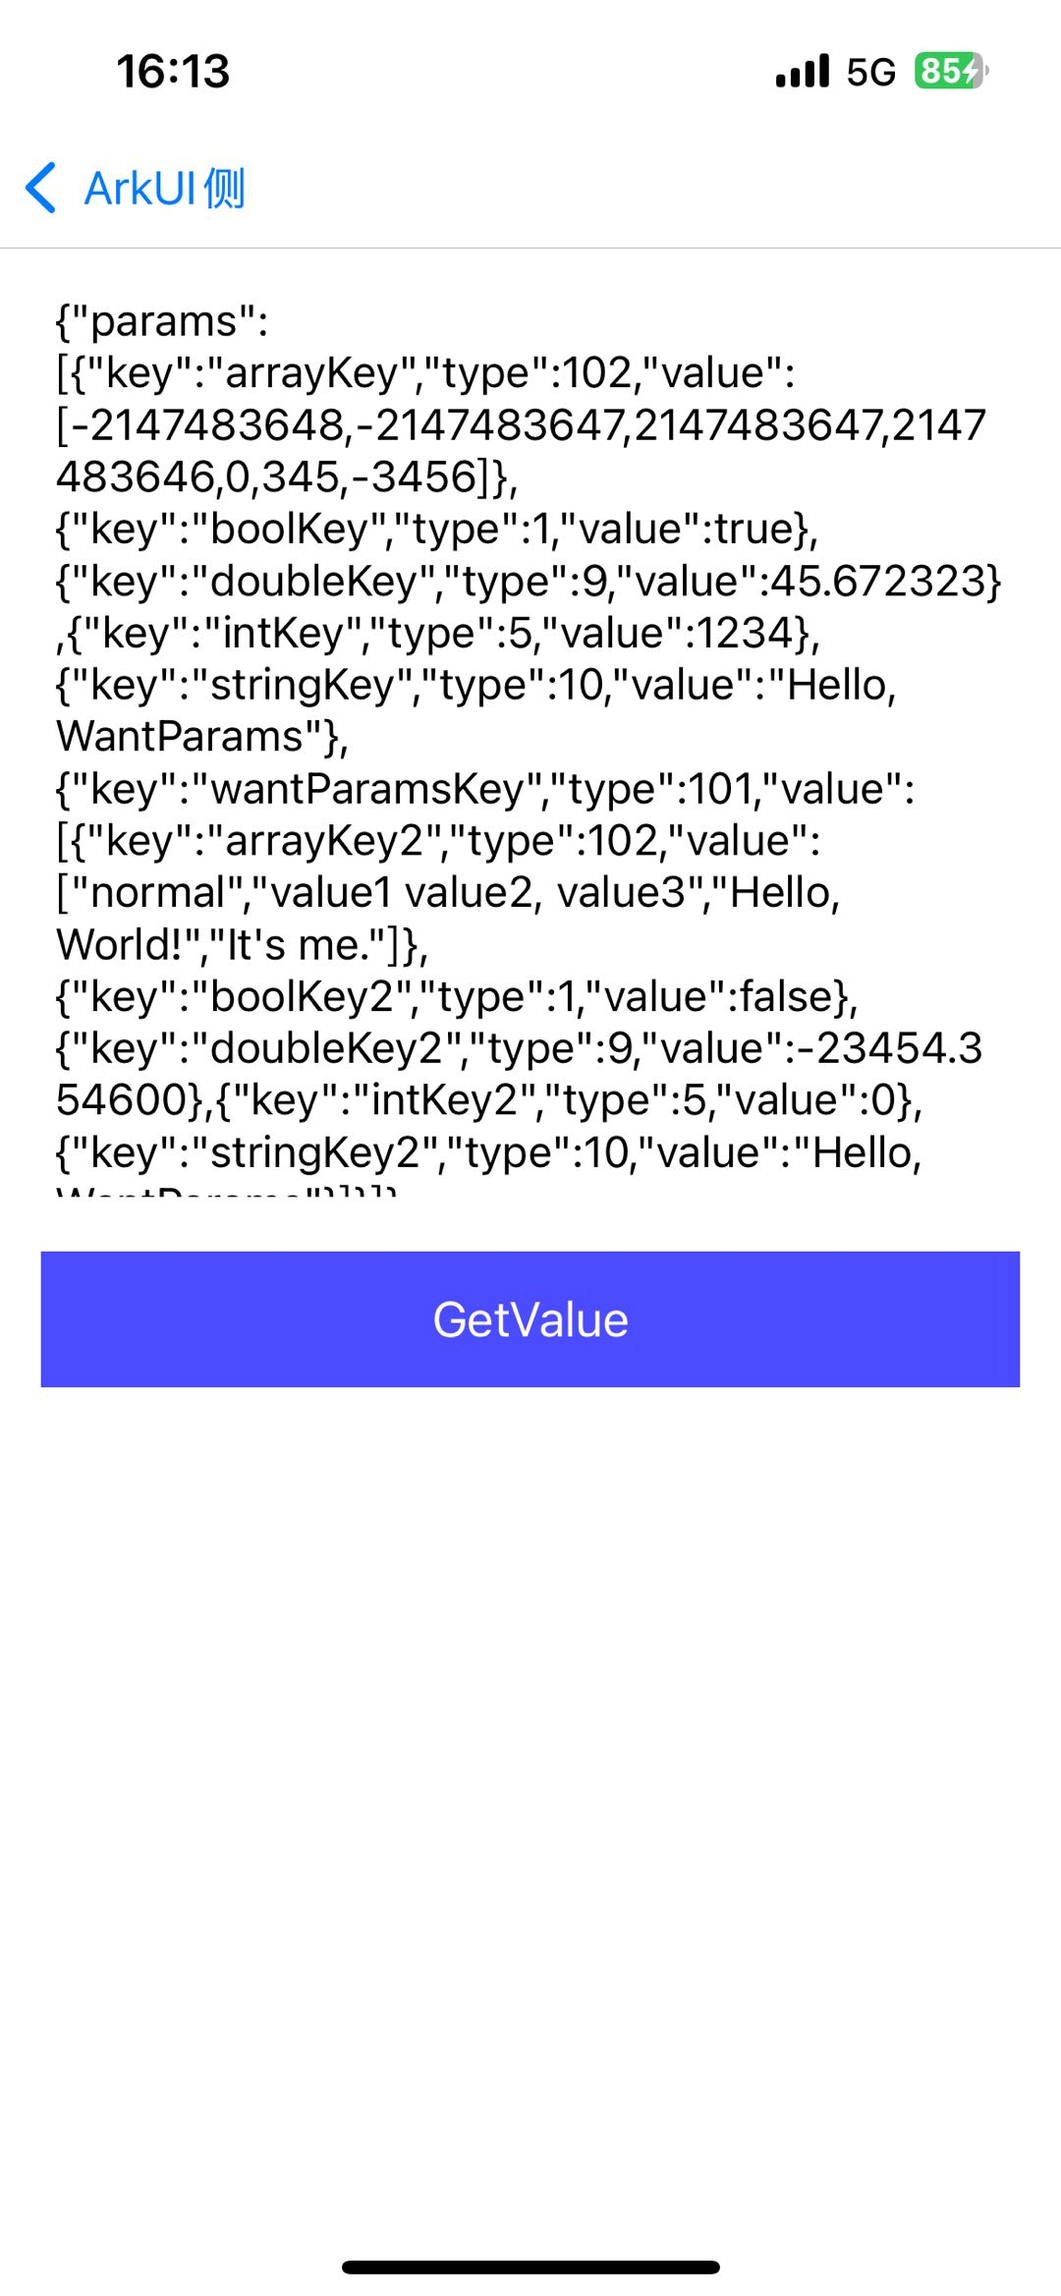
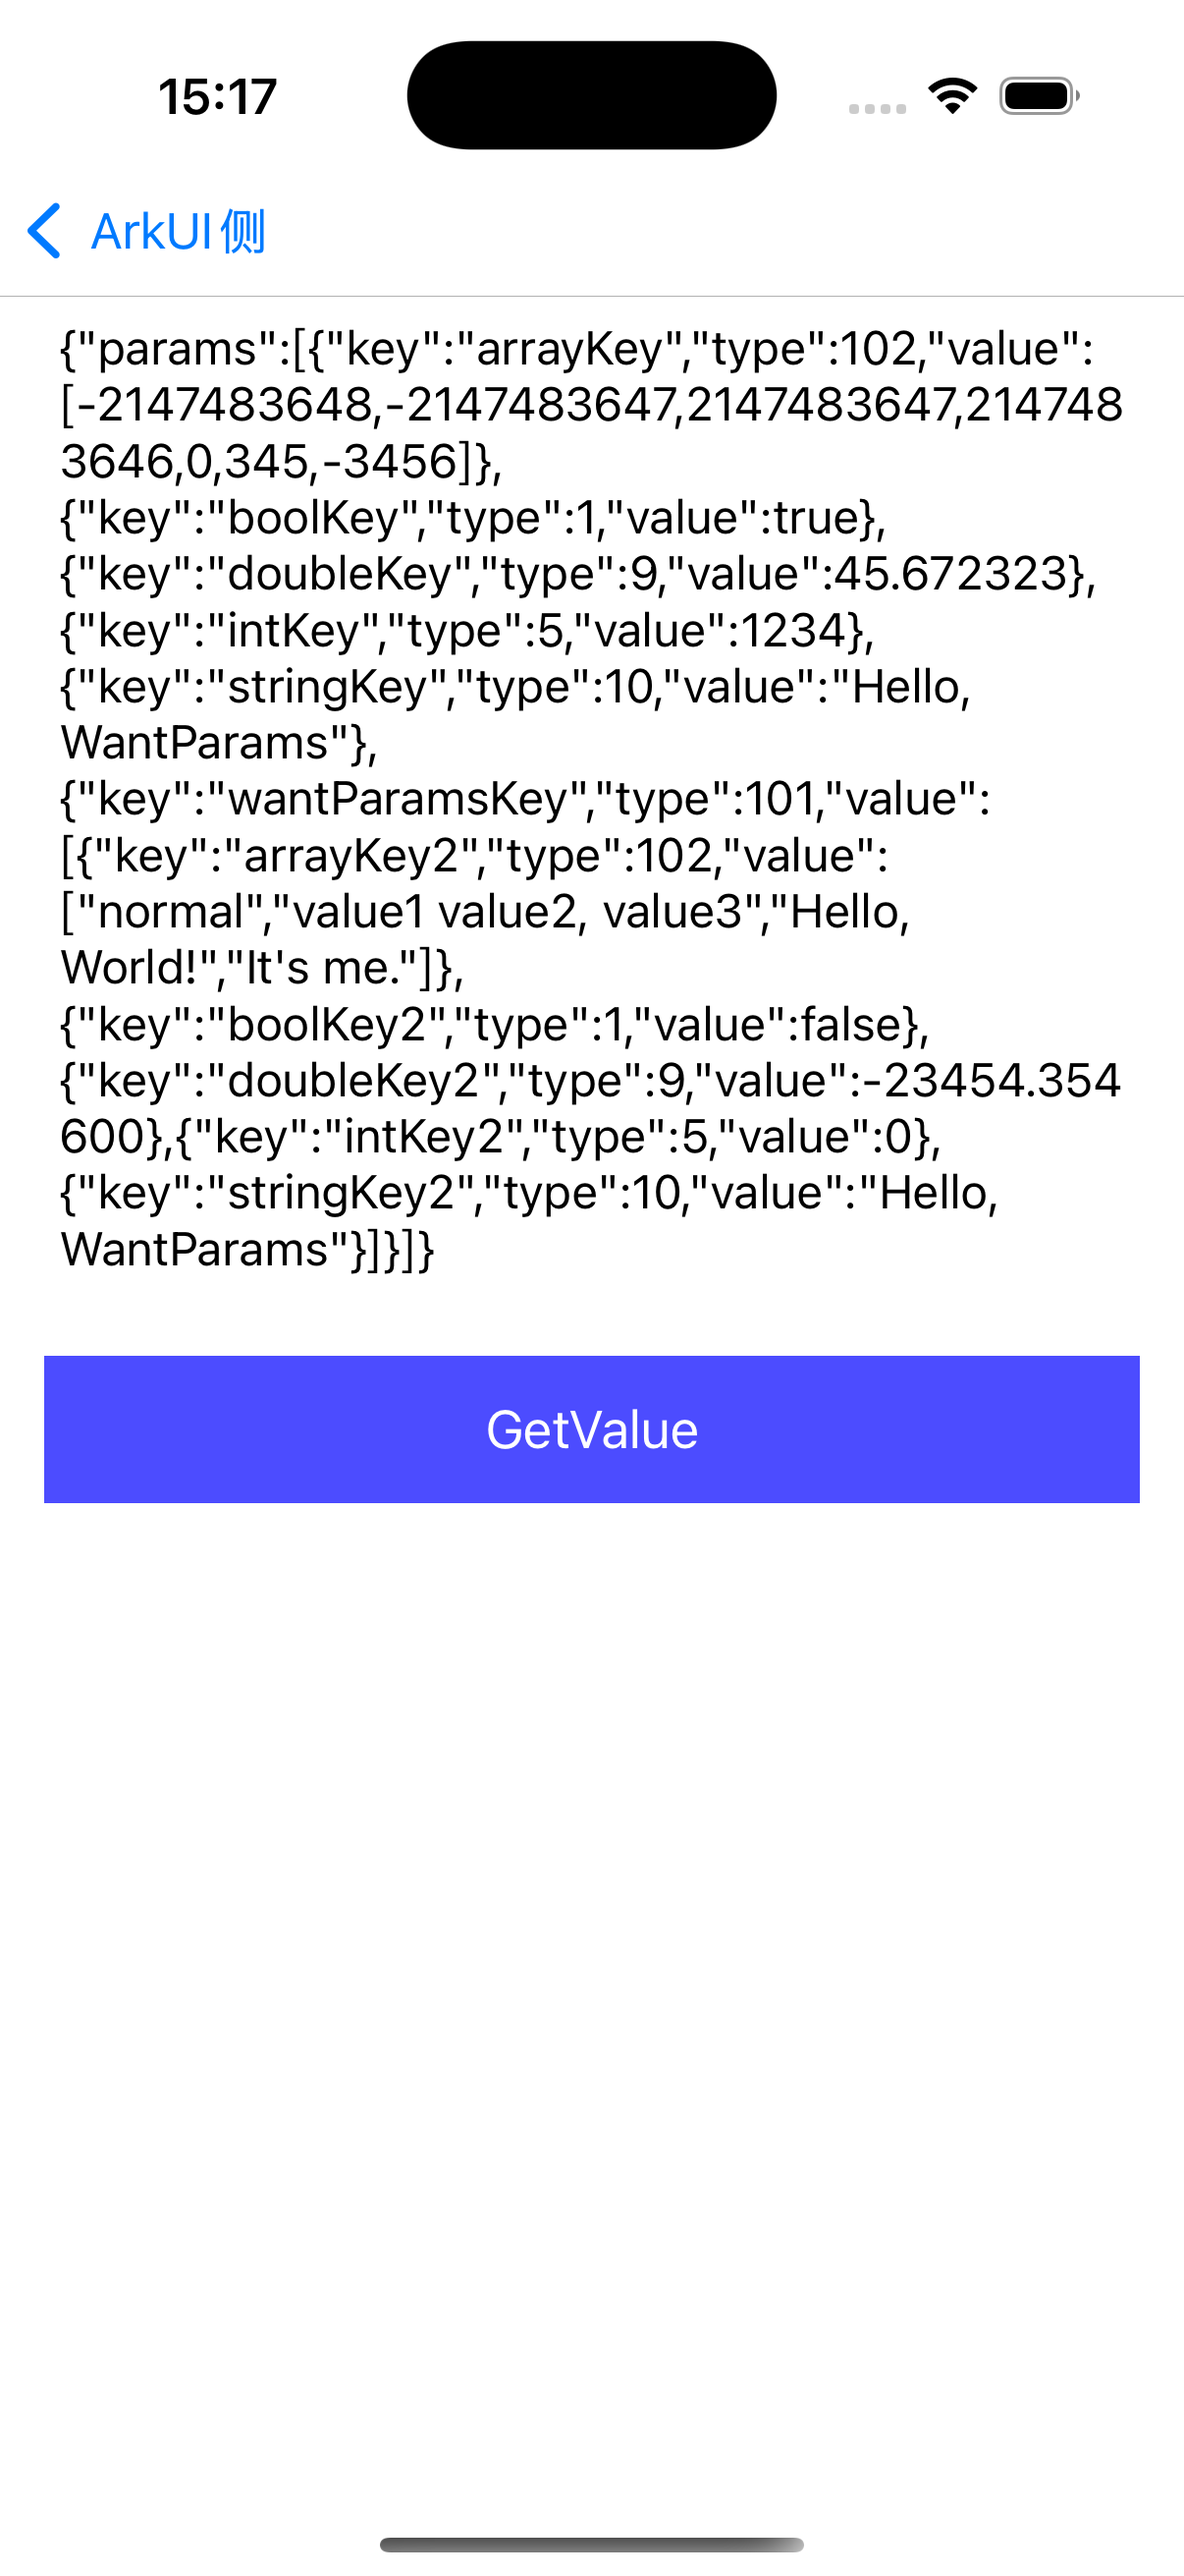
want补充截图

diff --git a/SuperFeature/WantParamsExample/README.md b/SuperFeature/WantParamsExample/README.md
@@ -19,6 +19,11 @@
               <img src="./screenshots/devices/android_want.jpg">
           </center>
       </td>
+      <td>
+          <center>
+              <img src="./screenshots/devices/android_getValue.jpg">
+          </center>
+      </td>
   </tr>
   </table> 
 
@@ -34,6 +39,11 @@
       <td>
           <center>
               <img src="./screenshots/devices/ios_state.png">
+          </center>
+      </td>
+      <td>
+          <center>
+              <img src="./screenshots/devices/ios_getValue.png">
           </center>
       </td>
   </tr>
